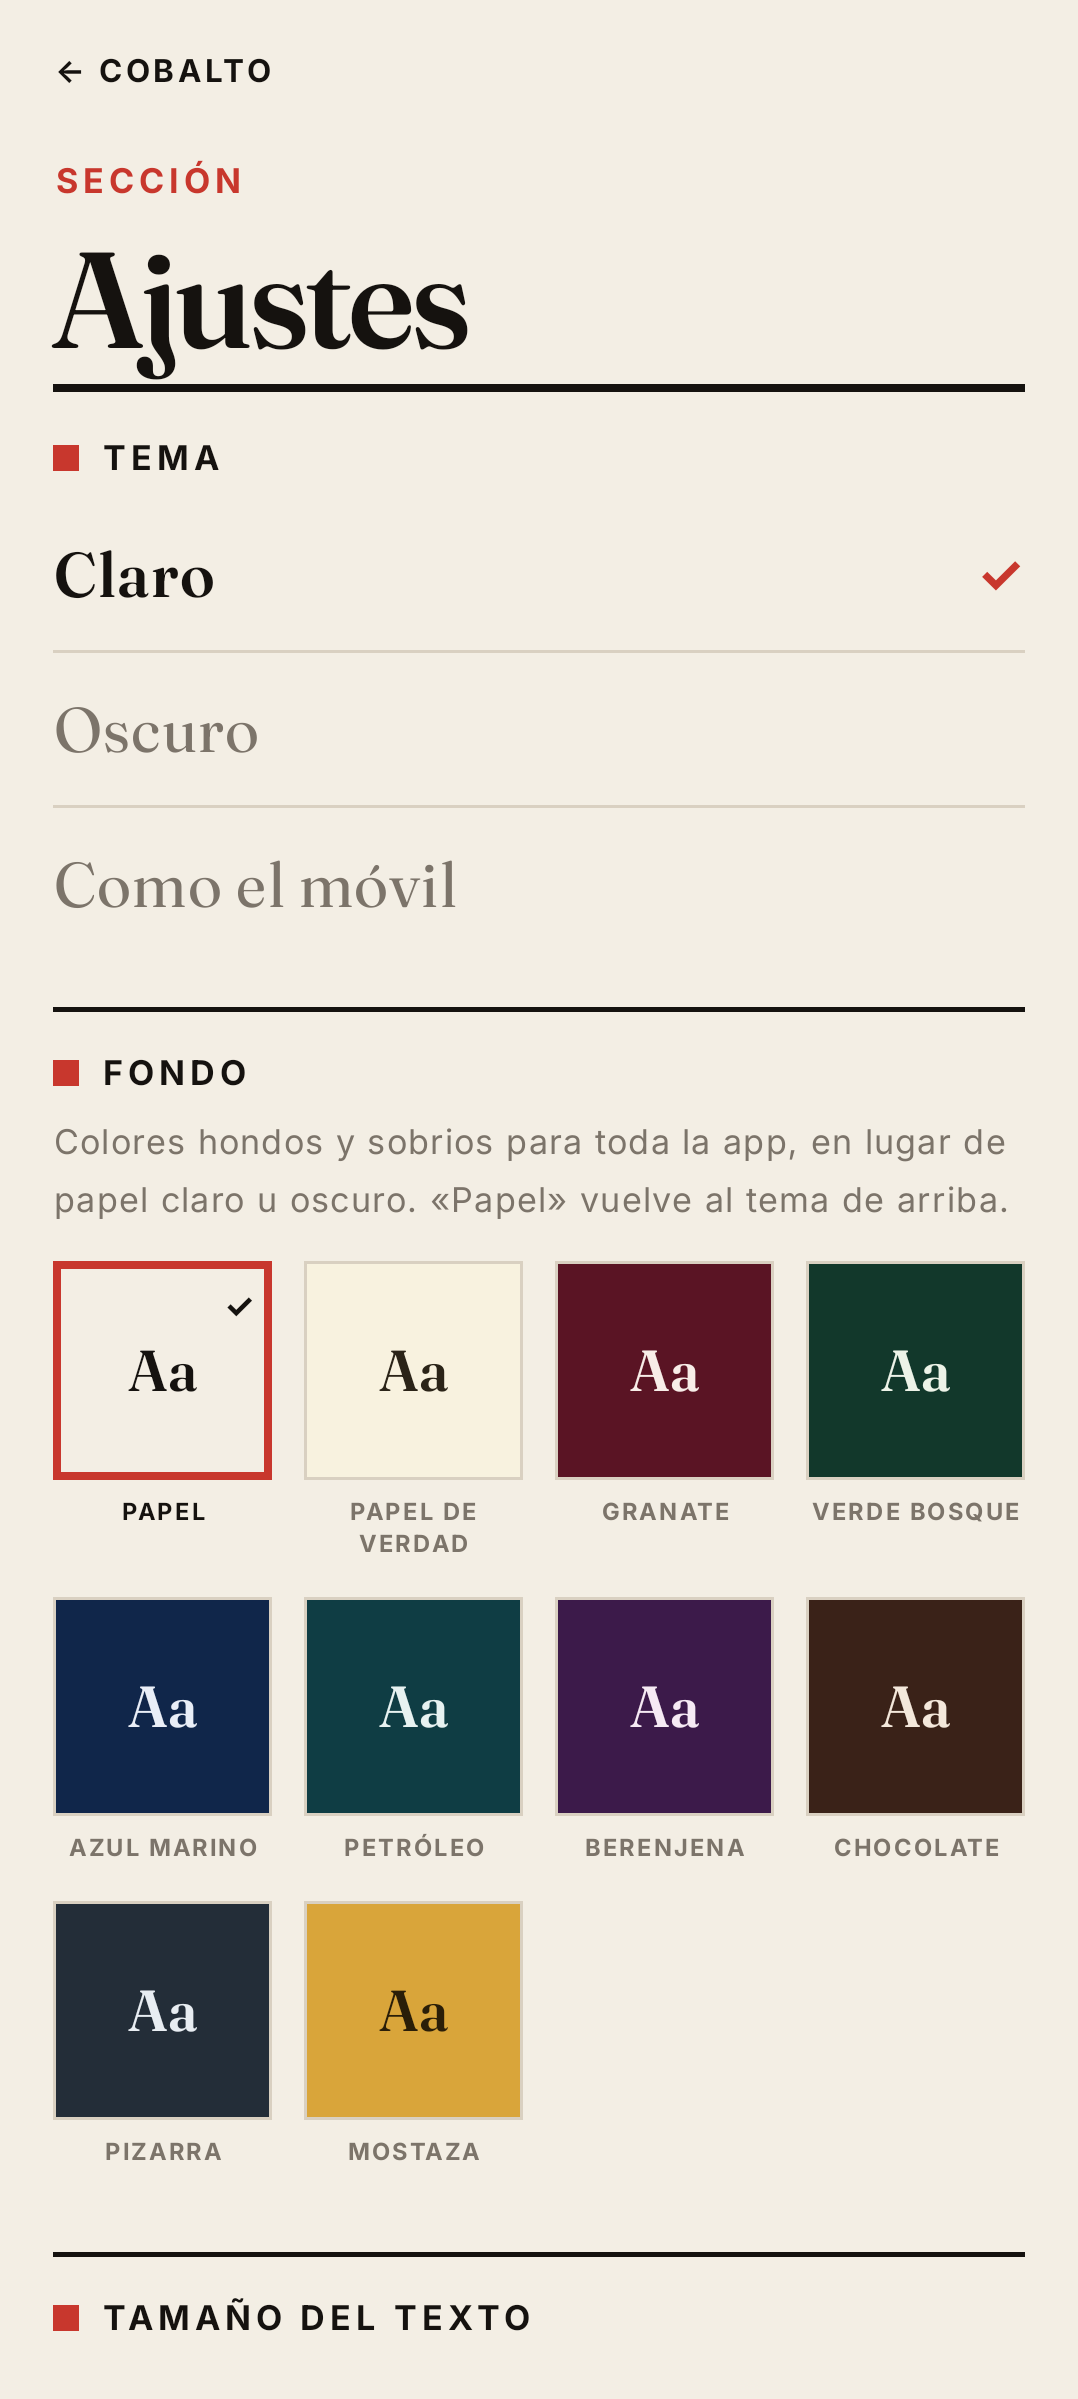
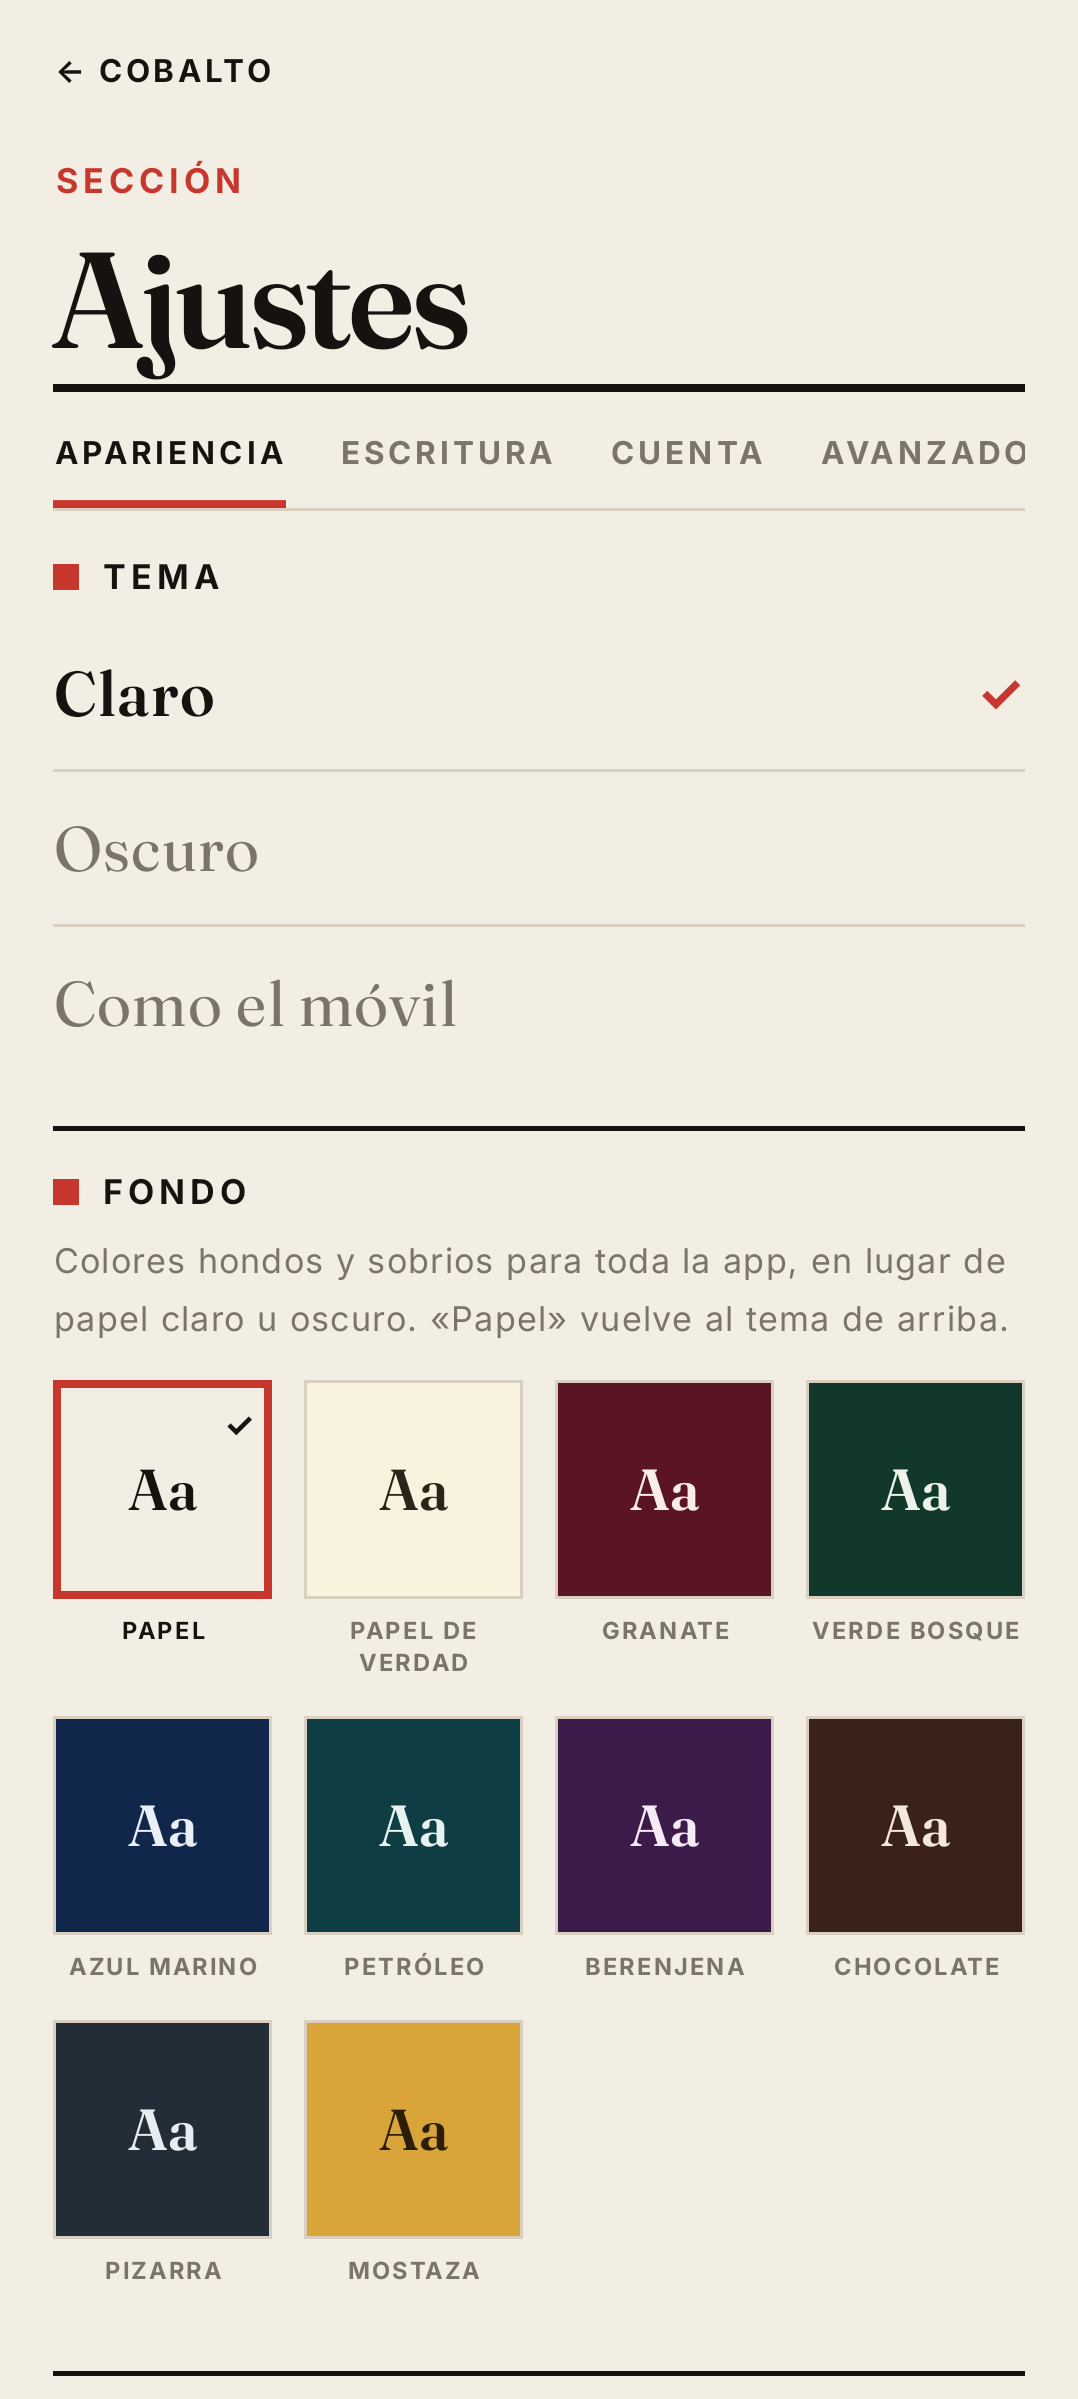
Cobalto 0.2.0: «Leer en Marfil» y Ajustes en pestañas
- Leer en Marfil: en el manuscrito y en Exportar, si Marfil está en el móvil y la
  obra tiene capítulos terminados, abre Marfil en «Escritos» (extra go=escritos).
- Ajustes en pestañas, como Atrio: Apariencia · Escritura · Cuenta · Avanzado.
- Textos que apuntaban a «Ajustes → Actualizaciones» apuntan a «Avanzado».
- Capturas nuevas de las pestañas. 37 pruebas, 0 fallos.

Claude-Session: https://claude.ai/code/session_01Q4uywen3nuzUg5CTwJaCY5

diff --git a/app/src/main/java/com/gonzalo/cobalto/PantEstilo.kt b/app/src/main/java/com/gonzalo/cobalto/PantEstilo.kt
@@ -14,6 +14,7 @@ import androidx.compose.material3.AlertDialog
 import androidx.compose.material3.Text
 import androidx.compose.material3.TextButton
 import androidx.compose.runtime.*
+import androidx.compose.runtime.saveable.rememberSaveable
 import androidx.compose.ui.Alignment
 import androidx.compose.ui.Modifier
 import androidx.compose.ui.graphics.SolidColor
@@ -30,7 +31,7 @@ import kotlinx.coroutines.Dispatchers
 import kotlinx.coroutines.launch
 import kotlinx.coroutines.withContext
 
-const val VERSION = "0.1.0"
+const val VERSION = "0.2.0"
 
 /** «Ajustes»: Apariencia (como la de Atrio), cuenta de Atrio y pareja, actualizaciones, escritura y copias. */
 @OptIn(ExperimentalLayoutApi::class)
@@ -43,50 +44,54 @@ fun PantEstilo(alVolver: () -> Unit) {
     val exportar = rememberLauncherForActivityResult(ActivityResultContracts.CreateDocument("application/json")) { u ->
         if (u != null) mensaje = runCatching { ctx.contentResolver.openOutputStream(u)!!.use { it.write(e.volcado().toString().toByteArray()) }; "Copia guardada" }.getOrElse { "No se pudo guardar la copia" }
     }
+    var pestana by rememberSaveable { mutableIntStateOf(0) }
     Column(Modifier.fillMaxSize().background(Paper).verticalScroll(rememberScrollState()).statusBarsPadding().navigationBarsPadding().padding(horizontal = 20.dp)) {
         RevistaTopBar(alVolver, "Cobalto")
         Antetitulo("Sección", Modifier.padding(top = 10.dp), color = Acento, conCuadro = false)
         FitTitle("Ajustes", 52.sp, 56.sp, letterSpacing = (-1.5).sp, modifier = Modifier.padding(top = 2.dp), unaLinea = true)
         Filete(3.dp)
+        PestanasRevista(listOf("Apariencia", "Escritura", "Cuenta", "Avanzado"), pestana) { pestana = it }
         Spacer(Modifier.height(14.dp))
 
-        SeccionApariencia()
-
-        Spacer(Modifier.height(14.dp))
-        Filete(2.dp)
-        Spacer(Modifier.height(12.dp))
-        Antetitulo("Cuenta de Atrio", Modifier.padding(bottom = 4.dp))
-        SeccionCuenta()
-
-        Spacer(Modifier.height(14.dp))
-        Filete(2.dp)
-        Spacer(Modifier.height(12.dp))
-        Antetitulo("Actualizaciones", Modifier.padding(bottom = 4.dp))
-        SeccionActualizaciones()
-
-        Spacer(Modifier.height(14.dp))
-        Filete(2.dp)
-        Spacer(Modifier.height(12.dp))
-        Antetitulo("Escritura", Modifier.padding(bottom = 4.dp))
-        val enPapelera = remember(e.version) { e.papelera().size }
-        MagLink("Papelera" + if (enPapelera > 0) " · $enPapelera" else "", "Lo borrado se guarda 30 días, también lo borrado desde el PC") { papelera = true }
-        Filete(1.dp, Line)
-        Text("Cobalto escribe en los mismos documentos que Escribir de Atrio y de Atrio del PC: tus obras salen aquí tal cual, y lo que cambies aquí llega allí.",
-            color = Muted, fontFamily = Body, fontSize = 12.sp, lineHeight = 17.sp, modifier = Modifier.padding(top = 6.dp))
-
-        Spacer(Modifier.height(14.dp))
-        Filete(2.dp)
-        Spacer(Modifier.height(12.dp))
-        Antetitulo("Copias", Modifier.padding(bottom = 4.dp))
-        MagLink("Guardar copia de mis obras", "Un archivo con todo lo escrito (obras, capítulos, escenas, fichas, notas…), también la papelera") { exportar.launch("cobalto-obras.json") }
-        Text("Cada obra se puede exportar aparte (texto, Markdown, Word o PDF) desde «Exportar», dentro de la obra.", color = Muted, fontFamily = Body, fontSize = 12.sp, lineHeight = 17.sp, modifier = Modifier.padding(top = 6.dp))
-        mensaje?.let { Text(it, color = Acento, fontFamily = Display, fontStyle = FontStyle.Italic, fontSize = 15.sp, modifier = Modifier.padding(top = 4.dp)) }
+        when (pestana) {
+            0 -> SeccionApariencia()
+            1 -> {
+                Antetitulo("Escritura", Modifier.padding(bottom = 4.dp))
+                val enPapelera = remember(e.version) { e.papelera().size }
+                MagLink("Papelera" + if (enPapelera > 0) " · $enPapelera" else "", "Lo borrado se guarda 30 días, también lo borrado desde el PC") { papelera = true }
+                Filete(1.dp, Line)
+                Text("Cobalto escribe en los mismos documentos que Escribir de Atrio y de Atrio del PC: tus obras salen aquí tal cual, y lo que cambies aquí llega allí.",
+                    color = Muted, fontFamily = Body, fontSize = 12.sp, lineHeight = 17.sp, modifier = Modifier.padding(top = 6.dp))
+                Spacer(Modifier.height(14.dp))
+                Filete(2.dp)
+                Spacer(Modifier.height(12.dp))
+                Antetitulo("Hermanas", Modifier.padding(bottom = 4.dp))
+                Text(if (Hermanas.hayMarfil(ctx)) "Marfil está en este móvil: los capítulos que das por terminados se leen allí con su lector («Leer en Marfil», en el manuscrito y en Exportar). Azabache enseña en su Diario las palabras de cada día."
+                    else "Los capítulos que das por terminados se publican en tu cuenta: Marfil los lee con su lector y Azabache enseña en su Diario las palabras de cada día. Marfil no está en este móvil.",
+                    color = Muted, fontFamily = Body, fontSize = 12.sp, lineHeight = 17.sp, modifier = Modifier.padding(top = 6.dp))
+            }
+            2 -> {
+                Antetitulo("Cuenta de Atrio", Modifier.padding(bottom = 4.dp))
+                SeccionCuenta()
+            }
+            else -> {
+                Antetitulo("kDrive y actualizaciones", Modifier.padding(bottom = 4.dp))
+                SeccionActualizaciones()
+                Spacer(Modifier.height(14.dp))
+                Filete(2.dp)
+                Spacer(Modifier.height(12.dp))
+                Antetitulo("Copias", Modifier.padding(bottom = 4.dp))
+                MagLink("Guardar copia de mis obras", "Un archivo con todo lo escrito (obras, capítulos, escenas, fichas, notas…), también la papelera") { exportar.launch("cobalto-obras.json") }
+                Text("Cada obra se puede exportar aparte (texto, Markdown, Word, libro o PDF) desde «Exportar», dentro de la obra.", color = Muted, fontFamily = Body, fontSize = 12.sp, lineHeight = 17.sp, modifier = Modifier.padding(top = 6.dp))
+                mensaje?.let { Text(it, color = Acento, fontFamily = Display, fontStyle = FontStyle.Italic, fontSize = 15.sp, modifier = Modifier.padding(top = 4.dp)) }
+            }
+        }
 
         Spacer(Modifier.height(26.dp))
         Filete(3.dp)
         Spacer(Modifier.height(10.dp))
         Etiqueta("Cobalto $VERSION")
-        Text("Cobalto es hermana de Atrio, Marfil y Carmesí. El tesauro de sinónimos es el de RLA-ES (LGPL 2.1).", color = Muted, fontFamily = Display, fontStyle = FontStyle.Italic, fontSize = 13.sp, lineHeight = 18.sp)
+        Text("Cobalto es hermana de Azabache, Marfil y Hiedra. El tesauro de sinónimos es el de RLA-ES (LGPL 2.1).", color = Muted, fontFamily = Display, fontStyle = FontStyle.Italic, fontSize = 13.sp, lineHeight = 18.sp)
         Spacer(Modifier.height(30.dp))
     }
     if (papelera) PapeleraEscribir(e, onCerrar = { papelera = false })

diff --git a/app/src/main/java/com/gonzalo/cobalto/EscribirMas.kt b/app/src/main/java/com/gonzalo/cobalto/EscribirMas.kt
@@ -243,6 +243,12 @@ fun ExportarDialogo(e: Escritos, obra: Doc, onCerrar: () -> Unit) {
     }
     HojaEscribir("Exportar «${obra.s("titulo")}»", onCerrar) {
         Text("Se hace en tu móvil: el texto no se envía a ningún sitio. Lo guardas donde quieras o lo mandas con otra app.", color = Muted, fontSize = 13.sp)
+        val terminados = remember(obra.id) { Hermanas.capitulosTerminados(e, obra.id) }
+        if (Hermanas.hayMarfil(ctx)) {
+            EtiquetaEscribir("En Marfil")
+            if (terminados > 0) EnlaceRevista("Leer en Marfil ($terminados ${if (terminados == 1) "capítulo terminado" else "capítulos terminados"})", acento = true) { Hermanas.leerEnMarfil(ctx) }
+            Text(if (terminados > 0) "Los capítulos que has dado por terminados se leen en Marfil con su lector, sin exportar nada (llegan por tu cuenta)." else "Cuando des un capítulo por terminado, se podrá leer en Marfil con su lector (llega por tu cuenta).", color = Muted, fontSize = 12.sp, lineHeight = 17.sp)
+        }
         EtiquetaEscribir("Formato")
         Row(Modifier.horizontalScroll(rememberScrollState()), horizontalArrangement = Arrangement.spacedBy(8.dp)) { formatos.forEach { (k, n) -> SoftChip(n, formato == k) { formato = k } } }
         if (conEstilo) {

diff --git a/app/src/main/java/com/gonzalo/cobalto/Hermanas.kt b/app/src/main/java/com/gonzalo/cobalto/Hermanas.kt
@@ -1,0 +1,21 @@
+package com.gonzalo.cobalto
+
+import android.content.Context
+import android.content.Intent
+
+/** Las apps hermanas que están en este móvil: Marfil lee los capítulos terminados (los que Cobalto publica en tu cuenta). */
+object Hermanas {
+    const val PAQ_MARFIL = "com.gonzalo.marfil"
+
+    fun instalada(c: Context, paq: String) = runCatching { c.packageManager.getLaunchIntentForPackage(paq) != null }.getOrDefault(false)
+    fun hayMarfil(c: Context) = instalada(c, PAQ_MARFIL)
+
+    /** Abre Marfil en «Escritos» (el extra `go` lo entiende Marfil 0.12.0 o más nueva; una más vieja abre su portada). */
+    fun leerEnMarfil(c: Context) {
+        val i = c.packageManager.getLaunchIntentForPackage(PAQ_MARFIL) ?: return
+        c.startActivity(i.putExtra("go", "escritos").addFlags(Intent.FLAG_ACTIVITY_NEW_TASK))
+    }
+
+    /** Cuántos capítulos de la obra están terminados (los que Marfil puede leer). */
+    fun capitulosTerminados(e: Escritos, obraId: String): Int = e.capitulos(obraId).count { Compartir.hecho(e, it) }
+}

diff --git a/app/src/main/java/com/gonzalo/cobalto/Actualizador.kt b/app/src/main/java/com/gonzalo/cobalto/Actualizador.kt
@@ -166,7 +166,7 @@ object Actualizador {
     /** Se llama nada más abrir la app y luego cada minuto mientras está abierta (siempre en segundo plano). */
     fun comprueba(ctx: Context, manual: Boolean = false, forzar: Boolean = false) {
         if (!activo(ctx) && !forzar) { if (manual) anota(ctx, "apagada (interruptor de arriba)"); return }
-        if (!KDrive.on(ctx)) { anota(ctx, "kDrive sin conectar (Ajustes → Actualizaciones)"); return }
+        if (!KDrive.on(ctx)) { anota(ctx, "kDrive sin conectar (Ajustes → Avanzado)"); return }
         if (!hayInternet(ctx)) { anota(ctx, "sin internet"); return }
         if (!ocupado.compareAndSet(false, true)) return
         try { compruebaYa(ctx) } catch (e: Throwable) { anota(ctx, "error: ${e.message ?: e.javaClass.simpleName}") } finally { ocupado.set(false) }

diff --git a/app/src/main/java/com/gonzalo/cobalto/EscribirParejaUi.kt b/app/src/main/java/com/gonzalo/cobalto/EscribirParejaUi.kt
@@ -41,7 +41,7 @@ fun MarcasCompartir(e: Escritos, d: Doc) {
             parte?.b("hecho") == true && !hecho -> Text("Terminado porque lo está la parte.", color = Muted, fontSize = 12.sp)
             d.t == Escritos.T_PARTE && comp -> Text("$nombre puede leer todos los capítulos de esta parte (también los que añadas) y anotarlos.", color = Muted, fontSize = 12.sp)
             comp -> Text("$nombre puede leerlo en su Atrio y anotarlo.", color = Muted, fontSize = 12.sp)
-            !Pareja.hay(ctx) -> Text("Para compartirlo, enlaza tu cuenta con la de tu pareja (Ajustes → Cuenta y pareja).", color = Muted, fontSize = 12.sp)
+            !Pareja.hay(ctx) -> Text("Para compartirlo, enlaza tu cuenta con la de tu pareja (Ajustes → Cuenta).", color = Muted, fontSize = 12.sp)
         }
     }
 }

diff --git a/app/src/main/java/com/gonzalo/cobalto/EscribirPartes.kt b/app/src/main/java/com/gonzalo/cobalto/EscribirPartes.kt
@@ -145,6 +145,9 @@ fun ManuscritoObra(e: Escritos, obra: Doc, ver: Int, abrirParte: (String) -> Uni
                 BotonEscribir("Nueva parte") { parteNueva = true }
                 BotonEscribir("Nuevo capítulo", suave = true) { capNuevo = true }
             }
+            val ctx = androidx.compose.ui.platform.LocalContext.current
+            val terminados = remember(ver, pid) { Hermanas.capitulosTerminados(e, pid) }
+            if (terminados > 0 && Hermanas.hayMarfil(ctx)) EnlaceRevista("Leer en Marfil ($terminados ${if (terminados == 1) "capítulo terminado" else "capítulos terminados"})", acento = true) { Hermanas.leerEnMarfil(ctx) }
         }
     }
     if (lista) ManuscritoLista(e, obra, ver, abrir, abrirCapitulo, hacerGuia, verGuia, cabecera = conmuta)

diff --git a/app/src/test/java/com/gonzalo/cobalto/CapturasTest.kt b/app/src/test/java/com/gonzalo/cobalto/CapturasTest.kt
@@ -83,7 +83,9 @@ class CapturasTest {
         org.junit.Assume.assumeTrue(System.getProperty("roborazzi.test.record") == "true")
         siembra(); montar(false)
         rule.onNodeWithContentDescription("Ajustes").performClick(); foto("5_ajustes")
-        rule.onNodeWithText("Cuenta de Atrio".uppercase(), useUnmergedTree = true).performScrollTo(); foto("5b_ajustes_cuenta")
+        rule.onNodeWithText("ESCRITURA").performClick(); rule.waitForIdle(); foto("5b_ajustes_escritura")
+        rule.onNodeWithText("CUENTA").performClick(); rule.waitForIdle(); foto("5c_ajustes_cuenta")
+        rule.onNodeWithText("AVANZADO").performClick(); rule.waitForIdle(); foto("5d_ajustes_avanzado")
     }
 
     @Test fun vacia() {

diff --git a/README.md b/README.md
@@ -10,6 +10,13 @@ versiones, comparar y mezclar, exportar (texto, Markdown, Word, PDF) e importar,
 Sin migración: usa los mismos documentos que Atrio y Atrio del PC (`/users/<uid>/escritos`), con el formato de `docs/escribir.md` de Atrio.
 Lo que escribas en el PC aparece aquí al momento, y al revés.
 
+## 0.2.0: «Leer en Marfil» y Ajustes en pestañas
+
+- **Leer en Marfil**: en el manuscrito de una obra (y en «Exportar»), si Marfil está en el móvil y la obra tiene capítulos terminados, un enlace
+  abre Marfil en sus «Escritos», donde esa obra se lee con el lector (Marfil 0.12.0 o más nueva). No se exporta nada: los capítulos llegan por tu cuenta.
+- **Ajustes** en pestañas, como Atrio: Apariencia · Escritura (papelera, y qué llega a Marfil y a Azabache) · Cuenta (Atrio y pareja) ·
+  Avanzado (kDrive y actualizaciones, copias).
+
 ## 0.1.0: la primera
 
 - **Portada de revista**, con las mismas medidas que las de Atrio, Marfil y Carmesí: la cabecera, el número del día y la fecha, las barras de
@@ -40,7 +47,7 @@ Generadas en el ordenador con obras de ejemplo (`CapturasTest`, `-Proborazzi.tes
 [portada abajo](docs/capturas/1b_portada_abajo.png) · [en oscuro](docs/capturas/2_portada_oscuro.png) · [Escribiendo](docs/capturas/3_escribiendo.png) ·
 [En pausa](docs/capturas/3b_en_pausa.png) · [Archivo](docs/capturas/3c_archivo.png) · [manuscrito](docs/capturas/4_obra_manuscrito.png) ·
 [fichas](docs/capturas/4b_obra_fichas.png) · [notas](docs/capturas/4c_obra_notas.png) · [editor](docs/capturas/4d_editor.png) ·
-[ajustes](docs/capturas/5_ajustes.png) · [vacía](docs/capturas/6_portada_vacia.png). Los widgets, en `docs/widgets/`.
+[ajustes](docs/capturas/5_ajustes.png) · [ajustes: escritura](docs/capturas/5b_ajustes_escritura.png) · [ajustes: cuenta](docs/capturas/5c_ajustes_cuenta.png) · [ajustes: avanzado](docs/capturas/5d_ajustes_avanzado.png) · [vacía](docs/capturas/6_portada_vacia.png). Los widgets, en `docs/widgets/`.
 
 ## Cómo se trabaja
 
